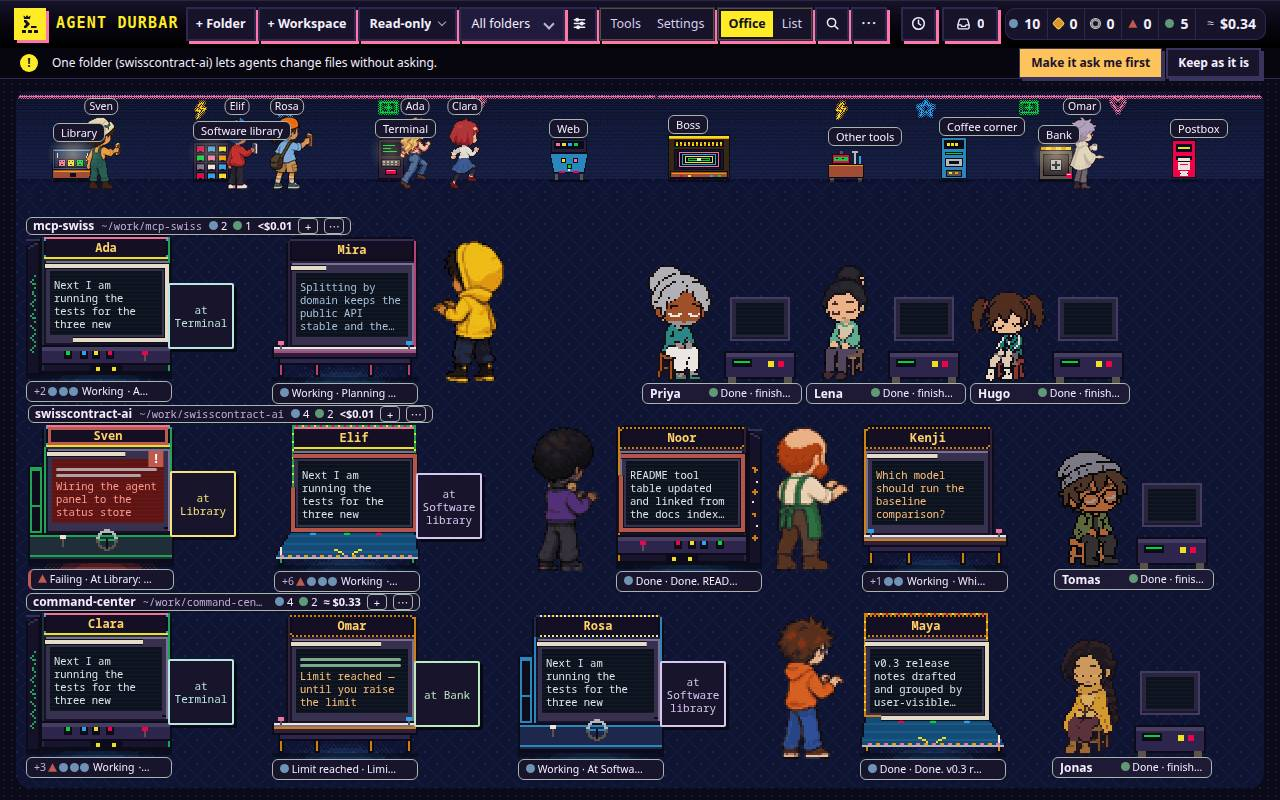
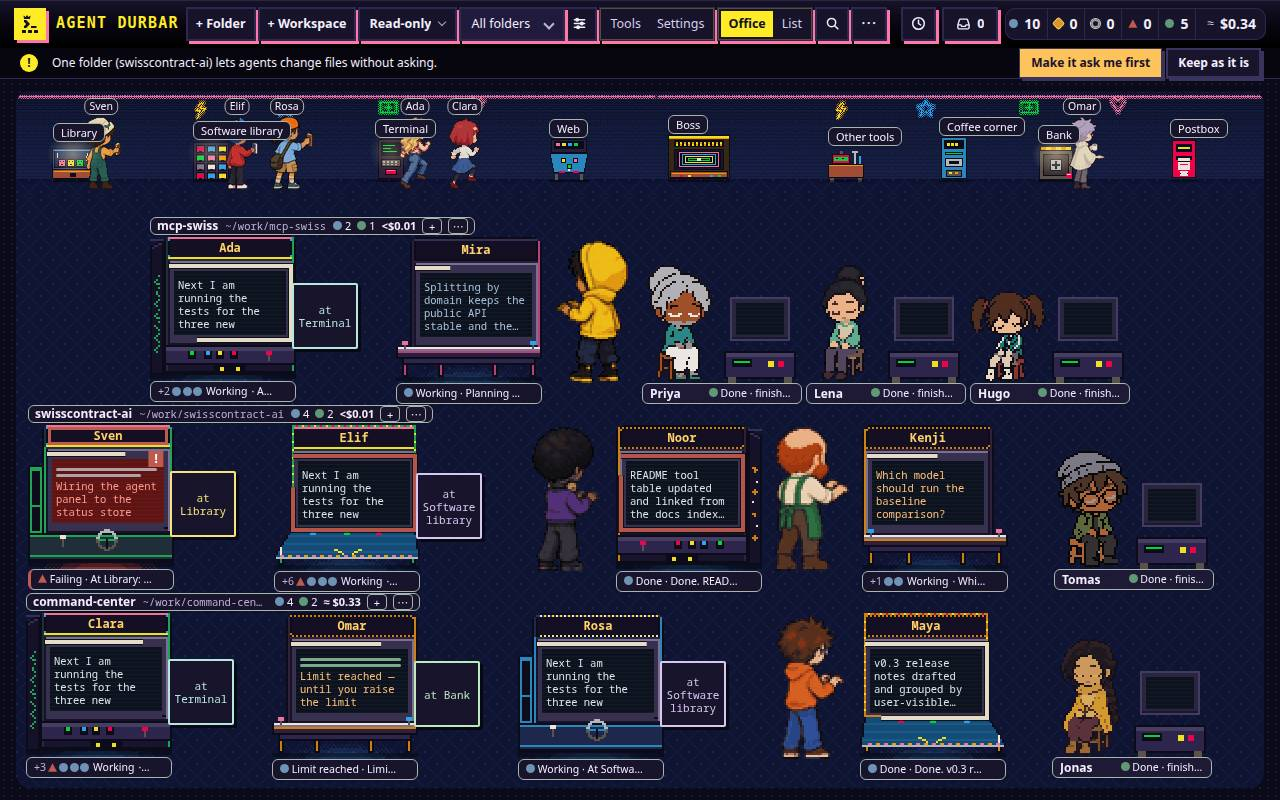
arcade lounge: seats reach their runs' ends before a cell is added (review of #1761)
One more cell made 33 halls of 11 agents at 1248x666 (1280x800 with the
filter strip) scroll. The seats now first use the run's ends (3 x 164 =
492 of 492.8 px); the extra cell stays for the narrow-cabinet halls. Against
main: only halls that dropped a seat change, none newly scrolls.

Changed region(s): [[0.0, 0.25, 0.5, 0.5]]

diff --git a/scripts/test-realoffice-aisles.ts b/scripts/test-realoffice-aisles.ts
@@ -470,10 +470,15 @@ console.log(`floor covered with 4 or fewer: ${covs.join('; ')}`);
     const L = seatedOk(rest([6, 6, 3], [0, 2, 6, 7, 11]), W, H, `#1760 repro: 6/6/3, 5 resting, ${nm}`);
     assert.ok(!L.scroll, `#1760 repro at ${nm}: no scroll`);
   }
+  /* review of #1761: at 1280x800 with the filter strip (1248x666) 11 agents with 5 resting have two runs of two cells; one cell more would add a row and scroll.
+     The seats reach the runs' ends instead (492 of 492.8 px): all five sit and the hall does not scroll */
+  { const L = seatedOk(rest([3, 8], [3, 4, 5, 6, 7]), 1248, 666, '#1761 review: 3/8, 5 resting, 1248x666 (1280x800 with the strip)'); assert.ok(!L.scroll, '#1761 review: 3/8, 5 resting, 1248x666: the seats reach the runs\' ends, no scroll'); }
+  /* the narrow-cabinet hall (cells 239.8 px, two-cell runs 479.6 px) holds 2 + 2 even at the ends: one more cell, in a hall that scrolls with everyone at a cabinet too */
+  seatedOk(rest([6, 7], [1, 4, 9, 10, 12]), 1248, 666, '#1760 one cell more: 6/7, 5 resting, 1248x666');
   let seed = 1760, fz = 0; const rnd = (n: number): number => { seed = (seed * 1664525 + 1013904223) % 4294967296; return Math.floor((seed / 4294967296) * n); };
-  for (let t = 0; fz < 600 && t < 5000; t++) {
+  for (let t = 0; fz < 800 && t < 8000; t++) {
     const nf = 1 + rnd(6), sz = Array.from({ length: nf }, () => 1 + rnd(6)), n = sz.reduce((a, b) => a + b, 0); if (n < 9 || n > 15) continue;
-    const idx = Array.from({ length: n }, (_, i) => i).filter(() => rnd(3) === 0), helpers = rnd(2) === 0, [nm, W, H] = t % 2 ? ['1280x800', 1248, ROOM.h800] : ['1440x900', 1408, ROOM.h900];
+    const idx = Array.from({ length: n }, (_, i) => i).filter(() => rnd(3) === 0), helpers = rnd(2) === 0, [nm, W, H] = ([['1440x900', 1408, ROOM.h900], ['1280x800', 1248, ROOM.h800], ['1440x900 with the strip', 1408, ROOM.h900 - 31], ['1280x800 with the strip', 1248, ROOM.h800 - 31]] as Array<[string, number, number]>)[t % 4];
     if (!idx.length) continue;
     seatedOk(rest(sz, idx, helpers), W as number, H as number, `#1760 fuzz ${t}: ${sz.join('/')} resting ${idx.join(',')}${helpers ? ' helpers' : ''} at ${nm}`); fz++;
   }

diff --git a/src/shared/realoffice-arrangements.ts b/src/shared/realoffice-arrangements.ts
@@ -270,9 +270,13 @@ export function aislesLayout(model: RealModel, view: { w: number; h: number }, m
     const runs = new Map<number, number[]>();
     for (let i = k; i < kc; i++) (runs.get(pk.at[i][0]) || runs.set(pk.at[i][0], []).get(pk.at[i][0])!).push(i);
     let next = 0;
+    /* spec 097 delta 2026-11-14 (issue #1760): a run keeps g clear at each end; when the runs then hold fewer seats than rest (two runs of two cells at 1248 px:
+       492.8 px, three seats 496 with the ends), the seats may reach the run's ends (its cells' edges, still clear of the next cabinet's slot) before a cell is added */
+    const span = (cells: number[]): number => cw + Math.max(...cells.map((i) => cxs[i])) - Math.min(...cells.map((i) => cxs[i]));
+    const end = runs.size > 1 && [...runs.values()].reduce((s, c) => s + Math.max(1, Math.floor((span(c) - 2 * g) / sw)), 0) < lounge.length ? 0 : g;
     for (const cells of runs.values()) {
       const bs = cells.map((i) => ({ x: cxs[i] + lean - cw / 2, b: slotBox(i) })), x0 = Math.min(...bs.map((c) => c.x)), x1 = Math.max(...bs.map((c) => c.x + cw));
-      const fit = Math.max(1, Math.floor((x1 - x0 - 2 * g) / sw)), take = next + fit >= lounge.length || runs.size === 1 ? lounge.length - next : fit, start = x0 + Math.max(g, (x1 - x0 - take * sw) / 2);
+      const fit = Math.max(1, Math.floor((x1 - x0 - 2 * end) / sw)), take = next + fit >= lounge.length || runs.size === 1 ? lounge.length - next : fit, start = x0 + Math.max(end, (x1 - x0 - take * sw) / 2);
       const plateY = Math.max(...bs.map((c) => c.b.cab.y)) + cabH;
       for (let j = 0; j < take && next < lounge.length; j++, next++) desks.push(aisleSeat(meta, lounge[next], snapL(start + j * sw), plateY, gl));
     }

diff --git a/specs/097-real-office/spec.md b/specs/097-real-office/spec.md
@@ -1653,6 +1653,8 @@ FR-316 puts the Draft tag above the left end of the plate and asks that it not t
 
 **Cause, measured (pure layout, retro set, 1248x697).** FR-248 counts the cells the seats need as one stretch: `ceil(5 x 82 / 109) = 4` cells (a seat is 82 grid px, the narrowest cell 109 with this set's 46 px player place). The four free cells fall in two runs of two (rows 2 and 1, columns 3 and 4) and each run seats only what its own width holds: a cell is 246.4 px at this width (the floor's 1232 px over 5 columns), a run of two is 492.8 px, and three seats need 3 x 164 + 2 x 2 = 496 px, so each run seats 2 and the last run does not take the remainder: 4 of 5. At 1440 wide (the cell is 252.8 px) the same hall seats 5, which is why a 1440 or 1280 px wide test floor did not show it. A seat cannot span two runs; the count assumed it could.
 
-**Rule.** The hall seats every resting agent: when the cell runs of the chosen plan hold fewer seats than rest, the hall is laid out again with one cell more, until they hold them all. This is FR-248's own rule ("as many cells as the seats need") counted per run; it never takes more cells than resting agents, so the hall is still never smaller than with those agents at cabinets (each cell holds at least one seat: a cell is at least 97 grid px times the scale, a seat 82 times at most the same scale). A hall that seats everyone today is laid out byte for byte as before (measured: 14848 random halls of 1 to 40 agents at six floor sizes, every changed layout was one that dropped a seat). The extra cell can add a row: in 6 of those halls the hall then scrolls (16 agents at 1248x697, 11 at 1248x666, the floor with the filter strip), exactly as the same hall does with every agent at a cabinet.
+**Rule.** The hall seats every resting agent, in two steps, each taken only when the one before leaves a resting agent without a seat: (1) the seats may reach the ends of their runs (a run keeps g px clear at each end; without it the run is its cells' edges, and a cabinet's slot is narrower than its cell, so the seat is still clear of the next cabinet: 3 x 164 = 492 px in the 492.8 px run above); (2) the hall is laid out again with one cell more, until the runs hold every seat. Step 2 is FR-248's own rule ("as many cells as the seats need") counted per run; it never takes more cells than resting agents, so the hall is never smaller than with those agents at cabinets (each cell holds at least one seat). A hall that seats everyone today is laid out byte for byte as before.
 
-**Checks.** `test-realoffice-aisles`: the exact repro (6/6/3, 5 resting, 1248x697, all five seated, the hall's scale as with everyone at cabinets) and a fuzz of 9 to 15 agents in 1 to 6 folders, with and without helpers, at the measured floors of 1440x900 and 1280x800 (1408 and 1248 px wide): every resting agent is seated, the existing lounge checks (no overlap, inside the floor, no scroll at 15) hold. A mutant (no retry) dies at "every resting agent has a seat". Not verified: Windows, macOS; the picture is the simulator on Linux only.
+**Measured (review of #1761).** Step 2 alone made 33 halls of 11 agents (5 resting) at 1280x800 with the filter strip (a floor 1248x666) scroll: the extra cell added a row; step 1 seats them with no scroll. With both steps, against `main`: 14848 random halls of 1 to 40 agents at six floor sizes (1408x797, 1248x697, 1408x766, 1248x666, 1000x600, 1900x1000): 1729 dropped a seat on `main`, 0 now; only those 1729 changed; none newly scrolls, none at a smaller scale, no seat over a cabinet, player or another seat or off the floor. 92051 random halls of up to 15 agents at the four measured floors (both sizes, with and without the strip): 497 dropped a seat, 0 now, only those changed, none newly scrolls. Step 2 is still needed where the cabinets are the narrow ones (cells 239.8 px, a two-cell run 479.6 px: 2 + 2 even at the ends), for example 13 agents in folders of 6 and 7 with 5 resting at 1248x666; those halls scroll on `main` and with everyone at a cabinet too.
+
+**Checks.** `test-realoffice-aisles`: the exact repro (6/6/3, 5 resting, 1248x697 and 1408x797: all five seated, no scroll, the hall's scale as with everyone at cabinets); the review's case (3/8, 5 resting, 1248x666: all five seated, no scroll); the one-cell-more case (6/7, 5 resting, 1248x666); and a fuzz of 800 halls of 9 to 15 agents in 1 to 6 folders, with and without helpers, at the measured floors of 1440x900 and 1280x800 with and without the 31 px strip: every resting agent is seated in status order, inside the floor, on no cabinet, no seat over another, never smaller than with everyone at a cabinet. Mutants, each killed at its own label: no step 1 ("3/8, 5 resting, 1248x666: the seats reach the runs' ends, no scroll"); no step 2 ("one cell more: 6/7, 5 resting, 1248x666: every resting agent has a seat (4 of 5)"). Not verified: Windows, macOS; the pictures are the simulator on Linux only.

diff --git a/changelog.d/097-1760-lounge-seats.md b/changelog.d/097-1760-lounge-seats.md
@@ -1,1 +1,1 @@
-- **Fixed: the Retro arcade's lounge seats every resting agent** (spec 097 FR-248, issue #1760): in some halls one resting agent had no seat, for example 15 agents in three folders at 1280x800 with five resting seated four. The hall now takes one more lounge cell when its cells, split over two rows, cannot hold every seat; a hall that already seated everyone is laid out as before. Checked by `test:realoffice-layout` (the exact case and a fuzz of 9 to 15 agents at both sizes) and simulator pictures on Linux; Windows and macOS not run.
+- **Fixed: the Retro arcade's lounge seats every resting agent** (spec 097 FR-248, issue #1760): in some halls one resting agent had no seat, for example 15 agents in three folders at 1280x800 with five resting seated four. The seats may now use the last few pixels of their stretch of the hall, and only where that is not enough does the hall take one more lounge cell; a hall that already seated everyone is laid out as before, and no hall of 15 agents or fewer starts to scroll. Checked by `test:realoffice-layout` (the exact cases and a fuzz of 9 to 15 agents at both sizes, with and without the filter strip) and simulator pictures on Linux; Windows and macOS not run.
